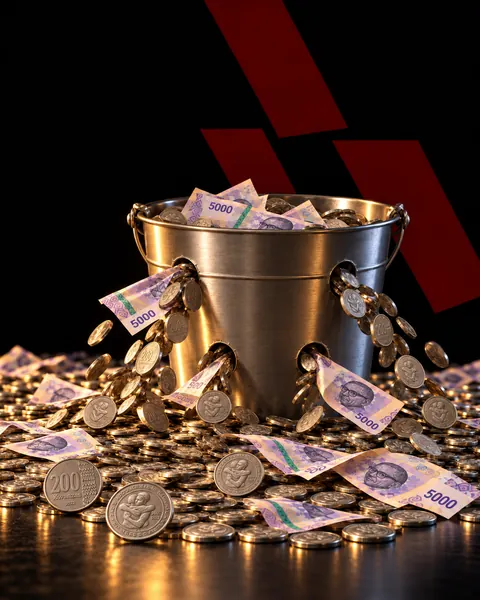
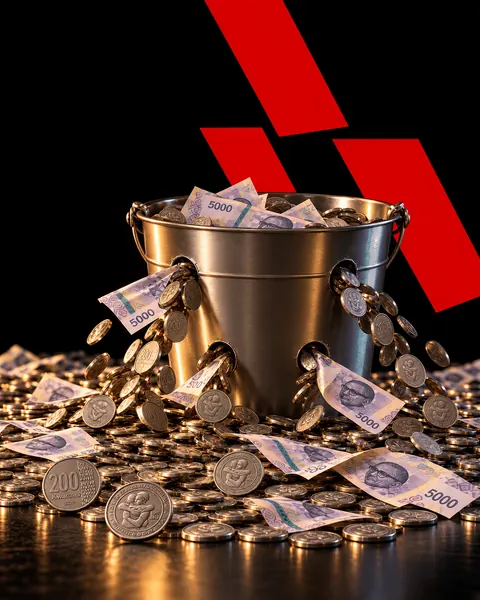
Visuais 3D nas soluções e nos modelos de entrega; balde com o vermelho Raise
11 imagens do Higgsfield em WebP (2 a 9 kB cada, carregamento diferido).

Claude-Session: https://claude.ai/code/session_01MJyPbkGUmwa6ePBcnyeFCV

Changed region(s): [[0.0, 0.0, 1.0, 1.0], [0.3438, 0.93, 0.375, 0.99]]

diff --git a/src/components/raise/Solutions.tsx b/src/components/raise/Solutions.tsx
@@ -2,6 +2,7 @@ import { useState } from "react";
 import { Check } from "lucide-react";
 import { Button } from "@/components/ui/button";
 import { solutions } from "@/data/offer";
+import { solutionImages } from "@/assets/site";
 
 const Solutions = () => {
   const [active, setActive] = useState(solutions[0].id);
@@ -45,7 +46,7 @@ const Solutions = () => {
             })}
           </div>
 
-          <div key={current.id} role="tabpanel" className="p-6 md:p-10 grid md:grid-cols-[1fr_auto] gap-8 items-end animate-fade-up">
+          <div key={current.id} role="tabpanel" className="p-6 md:p-10 grid md:grid-cols-[1fr_minmax(0,420px)] gap-8 md:gap-12 items-center animate-fade-up">
             <div className="max-w-2xl">
               <div className="flex items-center gap-3">
                 <Icon className="w-6 h-6 text-primary" />
@@ -60,10 +61,19 @@ const Solutions = () => {
                   </li>
                 ))}
               </ul>
+              <Button asChild variant="hero" size="lg" className="mt-8">
+                <a href="#diagnostico-form">Quero esta solução</a>
+              </Button>
             </div>
-            <Button asChild variant="hero" size="lg">
-              <a href="#diagnostico-form">Quero esta solução</a>
-            </Button>
+            <img
+              src={solutionImages[current.id]}
+              alt=""
+              width={800}
+              height={600}
+              loading="lazy"
+              decoding="async"
+              className="w-full rounded-lg border border-border order-first md:order-none"
+            />
           </div>
         </div>
       </div>

diff --git a/src/components/raise/DeliveryModels.tsx b/src/components/raise/DeliveryModels.tsx
@@ -1,5 +1,6 @@
 import { useState } from "react";
 import { models } from "@/data/offer";
+import { modelImages } from "@/assets/site";
 
 const DeliveryModels = () => {
   const [active, setActive] = useState(models[0].id);
@@ -41,13 +42,24 @@ const DeliveryModels = () => {
             })}
           </div>
 
-          <div key={current.id} role="tabpanel" className="rounded-lg border border-border bg-card p-6 md:p-10 animate-fade-up">
+          <div key={current.id} role="tabpanel" className="rounded-lg border border-border bg-card p-6 md:p-10 animate-fade-up grid lg:grid-cols-[1fr_minmax(0,320px)] gap-8 items-start">
+            <div>
             <h3 className="font-display text-2xl md:text-3xl font-medium">{current.label}</h3>
             <p className="mt-4 text-muted-foreground leading-relaxed md:text-lg max-w-2xl">{current.desc}</p>
             <div className="mt-8 pt-6 border-t border-border">
               <p className="eyebrow mb-2">Ideal para</p>
               <p className="text-foreground/90">{current.idealFor}</p>
             </div>
+            </div>
+            <img
+              src={modelImages[current.id]}
+              alt=""
+              width={800}
+              height={533}
+              loading="lazy"
+              decoding="async"
+              className="w-full rounded-lg border border-border order-first lg:order-none"
+            />
           </div>
         </div>
       </div>

diff --git a/src/assets/site/index.ts b/src/assets/site/index.ts
@@ -1,0 +1,15 @@
+// Visuais 3D gerados no Higgsfield (09/11/2026). Fonte: /mnt/project-files/site/imagens-higgsfield-0911
+import gestao from "./solucao-gestao.webp";
+import midia from "./solucao-midia.webp";
+import criativos from "./solucao-criativos.webp";
+import paginas from "./solucao-paginas.webp";
+import dados from "./solucao-dados.webp";
+import crm from "./solucao-crm.webp";
+import vendas from "./solucao-vendas.webp";
+import assessoria from "./modelo-assessoria.webp";
+import estruturacao from "./modelo-estruturacao.webp";
+import projecto from "./modelo-projecto.webp";
+import mentoria from "./modelo-mentoria.webp";
+
+export const solutionImages: Record<string, string> = { gestao, midia, criativos, paginas, dados, crm, vendas };
+export const modelImages: Record<string, string> = { assessoria, estruturacao, projecto, mentoria };
